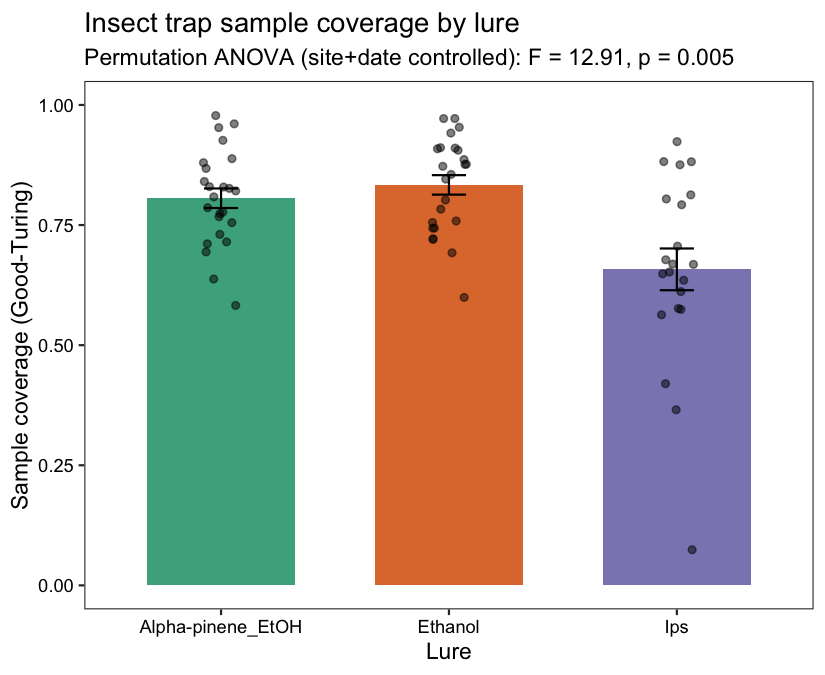
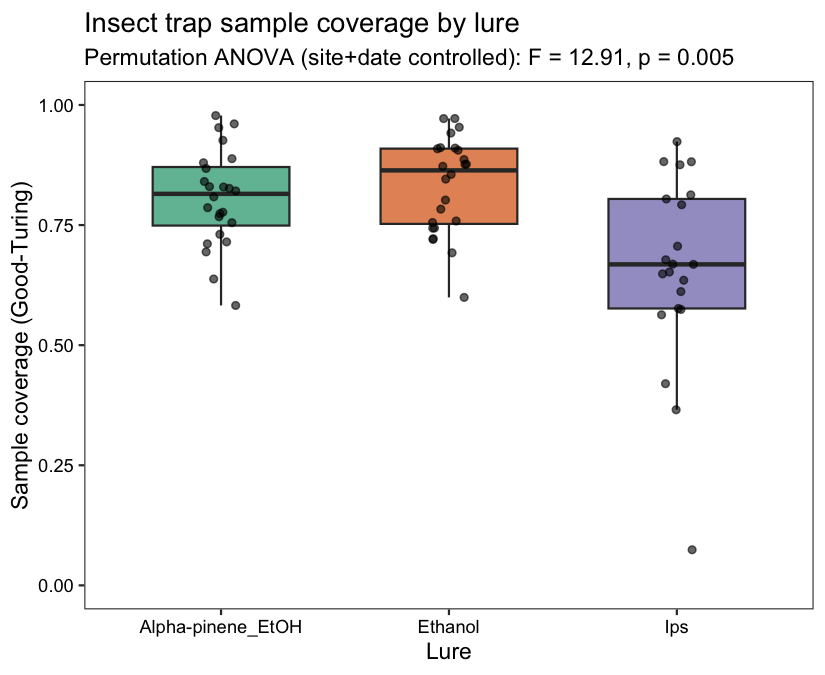
Switch coverage-by-lure figure from bar+SE to boxplot
Per user request. Stats/outputs unchanged -- only the visualization
in insect_coverage_by_lure.{png,pdf} changed.

Claude-Session: https://claude.ai/code/session_017Qt2VvoVtxVRyEsqD3NukA

diff --git a/iterative_analysis_updates.md b/iterative_analysis_updates.md
@@ -1961,5 +1961,6 @@ into that same directory pair, no new dirs needed):
 `data/compare_insects_fungi_asymptotic_richness_iNEXT_full_insect_table/insect_coverage_lure_anova.csv`,
 `insect_coverage_lure_pairwise.csv`;
 `figures/compare_insects_fungi_asymptotic_richness_iNEXT_full_insect_table/insect_coverage_by_lure.{png,pdf}`
-(bar plot, mean +/- SE with per-sample points, faceted by lure).
+(boxplot with per-sample jittered points, one box per lure; changed from an
+earlier bar+SE version to a boxplot 2026-09-15 same-day per user request).
 `project_organization.md` Lineage C index table + section updated.
